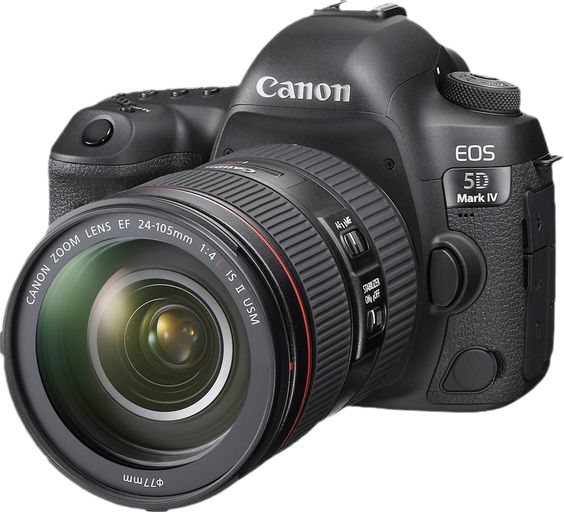
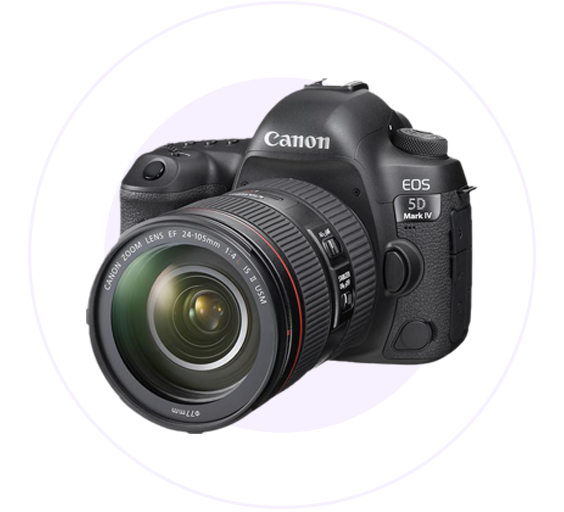
header image-background added

diff --git a/index.html b/index.html
@@ -24,7 +24,7 @@
                 <div class="left-content">
                     <h1>Start your Journey as Influencer</h1>
                     <p>Photography influencers have had the opportunity to develop over the years by displaying pictures or videos on the current social media. You can follow our products to make good pictures or videos on all these platforms.</p>
-                    <a class="custom-button" href="">Preebook now <i class="fas fa-arrow-right"></i></a>
+                    <a class="custom-button header-btn" href="">Preebook now <i class="fas fa-arrow-right"></i></a>
                 </div>
                 <div class="right-content">
                     <img src="images/products/main-camera.png" alt="">
@@ -249,7 +249,7 @@
                     </div>
                 </div>
             </div>
-            <a class="custom-button see-more-btn" href="">See More  </a> 
+            <a class="custom-button see-more-btn" href="">See More <i class="fas fa-arrow-right"></i> </a> 
          </section>
          <!-- Products end -->
          <!-- custom section start-->
@@ -263,19 +263,19 @@
         <div class="container">
             <div class="footer-wrapper">
                 <h2>Influencer products</h2>
-                <p>Copyright © 2020  influencer products All rights reserved</p>
+                <p>Copyright &copy; 2022  influencer products All rights reserved</p>
                 <div class="social-media">
                     <div class="social-icon">
-                        <span>IC</span>
+                        <a href=""><i class="fab fa-instagram"></i></a>
                     </div>
                     <div class="social-icon">
-                        <span>IC</span>
+                        <a href=""><i class="fab fa-dribbble"></i></a>  
                     </div>
                     <div class="social-icon">
-                        <span>IC</span>
+                        <a href=""><i class="fab fa-twitter"></i></a>
                     </div>
                     <div class="social-icon">
-                        <span>IC</span>
+                        <a href=""><i class="fab fa-youtube"></i></a>
                     </div>
                 </div>
             </div>

diff --git a/css/style.css b/css/style.css
@@ -36,7 +36,7 @@ a{
     font-size: 16px;
 }
 .custom-button .fa-arrow-right{
-    margin-left: 8px;
+    margin-left: 5px;
 }
 
 /* ========================
@@ -60,7 +60,6 @@ a{
     align-items: center;
     grid-column-gap: 3em;
     margin: 50px 0;
-    /* height: calc(100vh - 102px); */
 }
 .left-content h1{
     font-size: 52px;
@@ -72,13 +71,17 @@ a{
     font-weight: 400;
     line-height: 24px;
 }
+.header-btn{
+    transition: background-color 0.3s;
+}
+.header-btn:hover{
+    background-color: var(--white-color);
+    color: var(--button-color)
+}
 .right-content{
     display: flex;
     align-items: center;
     justify-content: center;
-}
-.right-content img{
-    width: 80%;
 }
 
 /*==========================
@@ -91,11 +94,14 @@ a{
     display: grid;
     grid-template-columns: repeat(7, 1fr);
     grid-column-gap: 60px;
+    justify-items: center;
     /* justify-content: space-evenly;
     align-items: center; */
 }
 .brand{
     margin: 36px 0;
+    justify-content: center;
+    display: flex;
 }
 
 /*==========================
@@ -188,6 +194,14 @@ footer{
 .social-media{
     display: flex;
     justify-content: space-evenly;
+}
+.social-icon i{
+    font-size: 18px;
+    color: var(--white-color);
+    background-color: #22213C;
+    padding: 14px;
+    border-radius: 50%;
+    cursor: pointer;
 }
 
 
